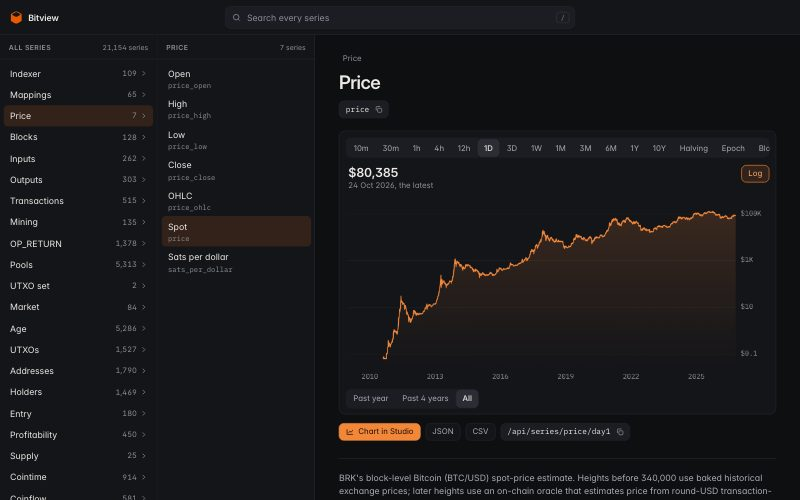
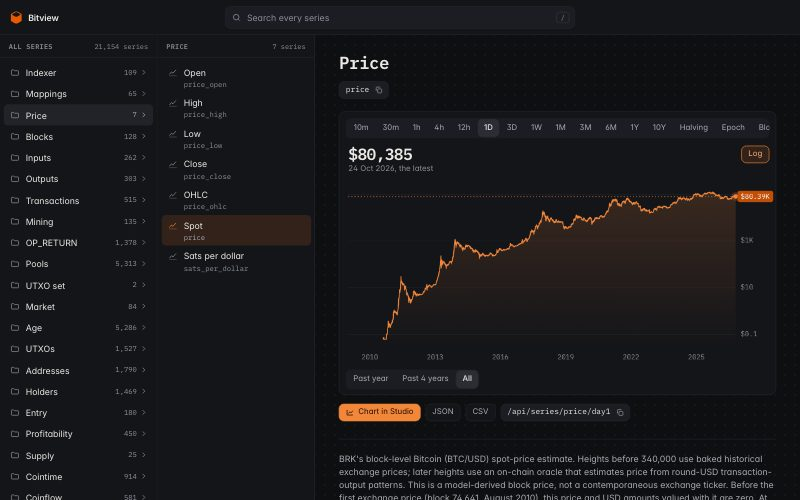
showcases: Series in a look of its own: plotting paper behind the panes (a dot every 16px), names, column headers, counts and the number read in the ids' monospace (a series' name and its id one family, the reading as a meter's); a glyph on every row (a folder, a small chart), the open row solid whe

diff --git a/showcases/series/index.html b/showcases/series/index.html
@@ -26,6 +26,7 @@
       :root {
         color-scheme: light dark;
         --app: light-dark(#fbfaf7, #0e0f11);
+        --dot: light-dark(#f5f3ed, #23262c);
         --pane: light-dark(#ffffff, #141519);
         --well: light-dark(#f3f1ec, #1b1d22);
         --ink: light-dark(#17181b, #eceae5);
@@ -38,6 +39,7 @@
         --pick: light-dark(#fbe9dc, #33221a);
         --pick-strong: light-dark(#f6d7bf, #47291a);
         --trail: light-dark(#efece5, #212329);
+        --solid: #c24e06;
         --hover: light-dark(#f4f1ea, #1c1e23);
         --raise: light-dark(#ffffff, #2b2d34);
         --plot: light-dark(#d4570a, #f2873a);
@@ -57,11 +59,12 @@
         height: 100%;
       }
 
+      /* (Behind the panes, plotting paper: a dot every 16px.) */
       body {
         margin: 0;
         display: grid;
         grid-template-rows: auto 1fr;
-        background: var(--app);
+        background: var(--app) radial-gradient(circle, var(--dot) 1px, transparent 1.2px) 0 0 / 16px 16px;
         color: var(--ink);
         font: 14px/1.5 var(--sans);
         font-feature-settings: "cv11", "ss01";
@@ -268,9 +271,8 @@
           padding: 12px 14px 9px;
           border-bottom: 1px solid var(--line);
           color: var(--faint);
-          font-size: 11px;
-          font-weight: 600;
-          letter-spacing: 0.06em;
+          font: 600 11px var(--mono);
+          letter-spacing: 0.04em;
           text-transform: uppercase;
 
           span {
@@ -345,7 +347,7 @@
           align-items: center;
           gap: 4px;
           color: var(--faint);
-          font-size: 12px;
+          font: 11.5px var(--mono);
         }
 
         .id {
@@ -363,8 +365,38 @@
         }
       }
 
+      /* (A column's row: its glyph, its name and count, a series' id under its name.) */
+      .column .row {
+        grid-template-columns: 16px minmax(0, 1fr) auto;
+        column-gap: 9px;
+
+        /* (On its name's line: a series' id under them both.) */
+        .glyph {
+          grid-row: 1;
+          align-self: center;
+          width: 16px;
+          height: 16px;
+          color: var(--faint);
+        }
+
+        .id {
+          grid-column: 2 / -1;
+        }
+      }
+
+      .row.end .glyph {
+        color: var(--accent);
+        opacity: 1;
+      }
+
+      /* (Where the keys are, the open end solid, as a Mac's list shows its selection.) */
       .column:focus-within .row.end {
-        background: var(--pick-strong);
+        background: var(--solid);
+        color: #fff;
+
+        :is(.side, .id, .glyph) {
+          color: #fff;
+        }
       }
 
       /* (A lit row's small words a shade darker, readable on its tint.) */
@@ -406,14 +438,6 @@
         overflow-y: auto;
         padding: 28px clamp(20px, 3vw, 40px) 48px;
 
-        h1 {
-          margin: 0;
-          font-size: clamp(22px, 2.4vw, 30px);
-          font-weight: 600;
-          letter-spacing: -0.025em;
-          line-height: 1.15;
-        }
-
         > p {
           margin: 6px 0 0;
           color: var(--faint);
@@ -430,26 +454,40 @@
       .tile {
         display: grid;
         align-content: start;
-        gap: 6px;
+        gap: 10px;
         min-width: 0;
-        padding: 12px 14px 14px;
+        padding: 14px 14px 16px;
         border: 1px solid var(--line);
-        border-radius: var(--radius);
+        border-radius: 12px;
         background: var(--pane);
         text-align: left;
 
+        /* (Its glyph, name and count: a way into it.) */
         > button {
           display: flex;
-          align-items: baseline;
-          justify-content: space-between;
-          gap: 10px;
+          align-items: center;
+          gap: 8px;
           padding: 0;
           text-align: left;
+
+          .glyph {
+            flex: none;
+            width: 16px;
+            height: 16px;
+            color: var(--accent);
+          }
+
+          &:hover b {
+            color: var(--accent-ink);
+          }
         }
 
         b {
+          flex: 1;
           overflow: hidden;
+          font-size: 14.5px;
           font-weight: 600;
+          letter-spacing: -0.01em;
           text-overflow: ellipsis;
           white-space: nowrap;
         }
@@ -460,34 +498,37 @@
           font-size: 12px;
         }
 
-        > button:hover b {
-          color: var(--accent-ink);
-        }
-
-        /* (What's in it, each a way straight there.) */
+        /* (What's in it, each a small way straight there; how many more after them.) */
         p {
+          display: flex;
+          flex-wrap: wrap;
+          gap: 5px;
           margin: 0;
-          color: var(--faint);
-          font-size: 12.5px;
-          line-height: 1.6;
 
-          /* (Each with its comma, never a line starting with one; a long name wrapping within the tile.) */
+          button,
           span {
+            max-width: 100%;
+            padding: 2px 8px;
+            overflow: hidden;
+            border-radius: 6px;
+            font-size: 12px;
+            line-height: 1.6;
+            text-overflow: ellipsis;
             white-space: nowrap;
           }
 
           button {
-            max-width: calc(100% - 0.5em);
-            padding: 0;
-            white-space: normal;
+            background: var(--well);
             color: var(--soft);
-            text-align: left;
 
             &:hover {
-              color: var(--ink);
-              text-decoration: underline;
-              text-underline-offset: 2px;
+              background: var(--pick);
+              color: var(--accent-ink);
             }
+          }
+
+          span {
+            color: var(--faint);
           }
         }
 
@@ -506,6 +547,10 @@
         b {
           color: var(--accent-ink);
         }
+      }
+
+      main.whole .crumbs {
+        display: none;
       }
 
       .crumbs {
@@ -529,12 +574,15 @@
         }
       }
 
-      .series h1 {
+      /* (A name in the ids' own face, the two one family.) */
+      .series h1,
+      .overview h1 {
         margin: 0;
-        font-size: clamp(22px, 2.4vw, 30px);
+        font-family: var(--mono);
+        font-size: clamp(21px, 2.2vw, 28px);
         font-weight: 600;
-        letter-spacing: -0.025em;
-        line-height: 1.15;
+        letter-spacing: -0.03em;
+        line-height: 1.2;
         text-wrap: balance;
       }
 
@@ -712,12 +760,10 @@
           min-width: 0;
         }
 
-        /* (The number read: the pane's largest after its name.) */
+        /* (The number read: the pane's largest after its name, as a meter shows it.) */
         b {
-          font-size: 24px;
-          font-weight: 600;
-          letter-spacing: -0.025em;
-          line-height: 1.15;
+          font: 600 26px/1.1 var(--mono);
+          letter-spacing: -0.04em;
           white-space: nowrap;
         }
 
@@ -1088,6 +1134,8 @@
 
       const ICON = {
         chevron: `<svg viewBox="0 0 24 24" fill="none" stroke="currentColor" stroke-width="2" aria-hidden="true"><path d="m9 6 6 6-6 6" /></svg>`,
+        folder: `<svg class="glyph" viewBox="0 0 24 24" fill="none" stroke="currentColor" stroke-width="1.7" stroke-linejoin="round" aria-hidden="true"><path d="M3.5 7.5A1.5 1.5 0 0 1 5 6h4l2 2h8a1.5 1.5 0 0 1 1.5 1.5v8A1.5 1.5 0 0 1 19 19H5a1.5 1.5 0 0 1-1.5-1.5z" /></svg>`,
+        line: `<svg class="glyph" viewBox="0 0 24 24" fill="none" stroke="currentColor" stroke-width="1.7" stroke-linecap="round" stroke-linejoin="round" aria-hidden="true"><path d="m4 16 4.5-5 3.5 3 6.5-7.5" /><path d="M4 20h16" opacity=".45" /></svg>`,
         back: `<svg viewBox="0 0 24 24" fill="none" stroke="currentColor" stroke-width="2" aria-hidden="true"><path d="m15 6-6 6 6 6" /></svg>`,
         copy: `<svg class="undone" viewBox="0 0 24 24" fill="none" stroke="currentColor" stroke-width="2" aria-hidden="true"><rect x="9" y="9" width="11" height="11" rx="2" /><path d="M5 15V6a2 2 0 0 1 2-2h9" /></svg>`,
         copied: `<svg class="done" viewBox="0 0 24 24" fill="none" stroke="currentColor" stroke-width="2.4" aria-hidden="true"><path d="m5 12.5 4.5 4.5L19 7.5" /></svg>`,
@@ -1351,6 +1399,8 @@
         const shown = Math.max(1, Math.min(columns.length, Math.floor((width - least) / column)));
         after.style.flexBasis = `${Math.max(least, width - shown * column)}px`;
         main.scrollLeft = main.scrollWidth;
+        // (Every column in sight: the series' crumbs would only say them again.)
+        main.classList.toggle("whole", shown >= columns.length);
       }
       new ResizeObserver(() => fit()).observe(main);
       /** A folder's column: its folders and series, the one open marked; a phone's way back above. */
@@ -1360,7 +1410,7 @@
         const rows = /** @type {Node[]} */ (folder.kids).map((kid, i) => {
           const current = kid.key === open;
           return `<li><button type="button" class="row${current && end ? " end" : ""}" tabindex="${i === stop ? 0 : -1}" data-path="${escape(JSON.stringify(kid.path))}" aria-current="${current}"${kid.name ? "" : ` aria-label="${escape(kid.label)}, ${kid.count} series"`}>
-            <span class="label">${escape(kid.label)}</span>
+            ${kid.name ? ICON.line : ICON.folder}<span class="label">${escape(kid.label)}</span>
             ${kid.name ? "" : `<span class="side num">${grouped.format(kid.count)}${ICON.chevron}</span>`}
             ${kid.name ? `<span class="id">${escape(kid.name)}</span>` : ""}
           </button></li>`;
@@ -1377,8 +1427,8 @@
         const tiles = /** @type {Node[]} */ (folder.kids).map((kid) => {
           if (kid.name) return `<button type="button" class="tile" data-path="${escape(JSON.stringify(kid.path))}"><b>${escape(kid.label)}</b><code>${escape(kid.name)}</code></button>`;
           const kids = /** @type {Node[]} */ (kid.kids), more = kids.length - FIRST;
-          return `<div class="tile"><button type="button" data-path="${escape(JSON.stringify(kid.path))}"><b>${escape(kid.label)}</b><span class="num">${grouped.format(kid.count)}</span></button>
-            <p>${kids.slice(0, FIRST).map((node, i, shown) => `<span>${link(node)}${i < shown.length - 1 || more > 0 ? "," : ""}</span>`).join(" ")}${more > 0 ? ` and ${more} more` : ""}</p></div>`;
+          return `<div class="tile"><button type="button" data-path="${escape(JSON.stringify(kid.path))}">${ICON.folder}<b>${escape(kid.label)}</b><span class="num">${grouped.format(kid.count)}</span></button>
+            <p>${kids.slice(0, FIRST).map(link).join("")}${more > 0 ? `<span class="num">+${more}</span>` : ""}</p></div>`;
         }).join("");
         const count = grouped.format(folder.path.length ? folder.count : byName.size);
         return `<section class="overview" aria-labelledby="overview-title"><h1 id="overview-title">${escape(folder.label || "All series")}</h1><p>${count} series, folder by folder<span class="keys">: ↑ ↓ along a column, → in, ← out, / to search</span></p><div class="tiles">${tiles}</div></section>`;
@@ -1629,12 +1679,16 @@
         const values = ticks(low, high, log), apart = (/** @type {string[]} */ texts) => new Set(texts).size === texts.length;
         let labels = values.map((v) => format(v, type, true));
         for (let digits = 5; !apart(labels) && digits <= 12; digits++) labels = values.map((v) => format(v, type, true, digits));
-        const widest = Math.max(0, ...labels.map((label) => ctx.measureText(label).width));
+        // (The latest's tag as wide as a label: room for it too.)
+        const latestText = ys.length - 1 >= from ? format(ys[ys.length - 1], type, true, 4) : "";
+        const widest = Math.max(0, ...[...labels, latestText].map((label) => ctx.measureText(label).width));
         const left = 14, right = box.width - Math.max(64, Math.ceil(widest) + 16), top = 10, bottom = box.height - 26;
         // (Placed by their index, not their count: a missing stretch keeps its width, a gap in the line.)
         const first = xs[from], span = /** @type {number} */ (xs.at(-1)) - first;
         const X = (/** @type {number} */ x) => left + (span > 0 ? ((x - first) / span) * (right - left) : (right - left) / 2);
         const Y = (/** @type {number} */ y) => bottom - ((scale(y) - low) / (high - low)) * (bottom - top);
+        // (Where the latest's tag will sit on the axis: no tick's label under it.)
+        const latestY = drawn(ys[ys.length - 1]) && ys.length - 1 >= from ? Y(ys[ys.length - 1]) : null;
         // Its grid and the value axis, at the right.
         ctx.fillStyle = color("--faint");
         ctx.strokeStyle = color("--grid");
@@ -1646,7 +1700,7 @@
           ctx.moveTo(left, Math.round(y) + 0.5);
           ctx.lineTo(right, Math.round(y) + 0.5);
           ctx.stroke();
-          ctx.fillText(labels[k], right + 8, y);
+          if (latestY === null || Math.abs(y - latestY) > 14) ctx.fillText(labels[k], right + 8, y);
         }
         // Its time axis: a mark where what it reads changes (a year, a month, a day), or round numbers.
         ctx.textBaseline = "alphabetic";
@@ -1676,6 +1730,36 @@
           ctx.closePath();
           ctx.fillStyle = wash;
           ctx.fill();
+        }
+        // The latest: a dot with a halo at its end, a dotted line across at its value, the value tagged on the axis.
+        const latest = ys.length - 1;
+        if (latestY !== null) {
+          const x = X(xs[latest]), y = latestY, text = latestText;
+          ctx.save();
+          ctx.setLineDash([2, 3]);
+          ctx.strokeStyle = ink("--plot", 0.5);
+          ctx.beginPath();
+          ctx.moveTo(left, Math.round(y) + 0.5);
+          ctx.lineTo(right, Math.round(y) + 0.5);
+          ctx.stroke();
+          ctx.restore();
+          ctx.fillStyle = ink("--plot", 0.2);
+          ctx.beginPath();
+          ctx.arc(x, y, 7, 0, Math.PI * 2);
+          ctx.fill();
+          ctx.fillStyle = plotColor;
+          ctx.beginPath();
+          ctx.arc(x, y, 3.5, 0, Math.PI * 2);
+          ctx.fill();
+          const w = Math.ceil(ctx.measureText(text).width) + 10, tagTop = Math.min(Math.max(y - 9, top - 4), bottom - 14);
+          ctx.fillStyle = color("--solid");
+          ctx.beginPath();
+          ctx.roundRect(right + 3, tagTop, w, 18, 4);
+          ctx.fill();
+          ctx.fillStyle = "#fff";
+          ctx.textBaseline = "middle";
+          ctx.fillText(text, right + 8, tagTop + 9.5);
+          ctx.textBaseline = "alphabetic";
         }
         // The point read, if any.
         if (hovered !== null && hovered >= from && drawn(ys[hovered])) {
